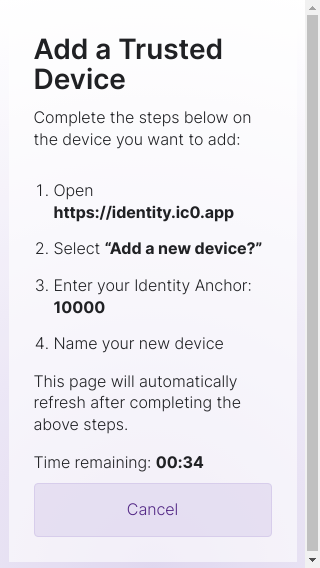
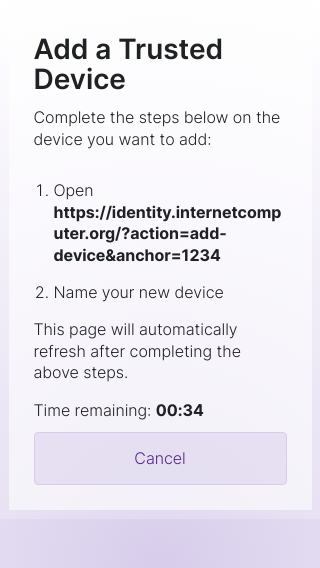
Add add-device link (#1394)
* Add add-device link

This changes the "add device" flow slightly (when starting from an
existing device) to show a link to be opened on the new device.

The link looks like this: `HOST/?action=add-device&anchor=1234`

This is then interpreted by the new device as a cue to be added
tentatively to anchor `1234`.

* Fix wrap on link

* 🤖 Selenium screenshots auto-update

* Format

* Remove unnecessary promise

---------

diff --git a/src/frontend/src/flows/addDevice/manage/pollForTentativeDevice.ts b/src/frontend/src/flows/addDevice/manage/pollForTentativeDevice.ts
@@ -1,6 +1,7 @@
 import { html } from "lit-html";
 import { asyncReplace } from "lit-html/directives/async-replace.js";
 import { AsyncCountdown } from "../../../utils/countdown";
+import { addDeviceLink } from "../../../utils/addDeviceLink";
 import { AuthenticatedConnection } from "../../../utils/iiConnection";
 import { delayMillis } from "../../../utils/utils";
 import { renderPage } from "../../../utils/lit-html";
@@ -9,16 +10,15 @@ import {
   Timestamp,
 } from "../../../../generated/internet_identity_types";
 import { mainWindow } from "../../../components/mainWindow";
-import { LEGACY_II_URL } from "../../../config";
 
 const pollForTentativeDeviceTemplate = ({
-  userNumber,
   cancel,
   remaining,
+  link,
 }: {
-  userNumber: bigint;
   cancel: () => void;
   remaining: AsyncIterable<string>;
+  link: string;
 }) => {
   const pageContentSlot = html`
     <hgroup>
@@ -32,16 +32,13 @@ const pollForTentativeDeviceTemplate = ({
       <li>
         Open
         <em class="c-tooltip">
-          <strong class="t-strong">${LEGACY_II_URL}</strong>
+          <strong data-role="add-device-link" class="t-strong t-wrap"
+            >${link}</strong
+          >
           <span class="c-tooltip__message c-card c-card--tight">
             Open this link on the device you want to add.
           </span>
         </em>
-      </li>
-      <li>Select <strong class="t-strong">“Add a new device?”</strong></li>
-      <li>
-        Enter your Identity Anchor:
-        <strong class="t-strong">${userNumber}</strong>
       </li>
       <li>Name your new device</li>
     </ol>
@@ -83,15 +80,14 @@ export const pollForTentativeDevice = (
   endTimestamp: Timestamp
 ): Promise<DeviceData | "timeout" | "canceled"> => {
   const countdown = AsyncCountdown.fromNanos(endTimestamp);
-
   // Show the page with the option to cancel
   const page = new Promise<"canceled">((resolve) =>
     pollForTentativeDevicePage({
-      userNumber,
       cancel: () => {
         countdown.stop();
         resolve("canceled");
       },
+      link: addDeviceLink({ userNumber }),
       remaining: countdown.remainingFormattedAsync(),
     })
   );

diff --git a/src/frontend/src/index.ts b/src/frontend/src/index.ts
@@ -1,14 +1,17 @@
 import "./styles/main.css";
 import { authFlowManage } from "./flows/manage";
+import { html, render } from "lit-html";
 import { authFlowAuthorize } from "./flows/authorize";
 import { compatibilityNotice } from "./flows/compatibilityNotice";
 import { aboutView } from "./flows/about";
 import { version } from "./version";
 import { checkRequiredFeatures } from "./utils/featureDetection";
+import { getAddDeviceAnchor } from "./utils/addDeviceLink";
 import { showWarningIfNecessary } from "./banner";
 import { displayError } from "./components/displayError";
 import { Connection } from "./utils/iiConnection";
 import { anyFeatures, features } from "./features";
+import { registerTentativeDevice } from "./flows/addDevice/welcomeView/registerTentativeDevice";
 
 /** Reads the canister ID from the <script> tag.
  *
@@ -93,6 +96,26 @@ const init = async () => {
 
   // Prepare the actor/connection to talk to the canister
   const connection = new Connection(readCanisterId());
+
+  // Figure out if user is trying to add a device. If so, use the anchor from the URL.
+  const addDeviceAnchor = getAddDeviceAnchor();
+  if (addDeviceAnchor !== undefined) {
+    // Register this device (tentatively)
+    await registerTentativeDevice(addDeviceAnchor, connection);
+
+    // Show a good bye message
+    const container = document.getElementById("pageContent") as HTMLElement;
+    render(
+      html`<h1
+        style="position: absolute; max-width: 100%; top: 50%; transform: translate(0, -50%);"
+        data-role="notify-auth-success"
+      >
+        You may close this page.
+      </h1>`,
+      container
+    );
+    return;
+  }
 
   // Simple, #-based routing
   if (url.hash === "#authorize") {

diff --git a/src/frontend/src/flows/addDevice/welcomeView/showVerificationCode.ts b/src/frontend/src/flows/addDevice/welcomeView/showVerificationCode.ts
@@ -1,7 +1,7 @@
 import { html } from "lit-html";
 import { asyncReplace } from "lit-html/directives/async-replace.js";
 import { Connection } from "../../../utils/iiConnection";
-import { delayMillis } from "../../../utils/utils";
+import { unreachableLax, delayMillis } from "../../../utils/utils";
 import { renderPage } from "../../../utils/lit-html";
 import {
   AddTentativeDeviceResponse,
@@ -82,7 +82,7 @@ export const showVerificationCode = async (
   alias: string,
   tentativeRegistrationInfo: TentativeRegistrationInfo,
   credentialToBeVerified: CredentialId
-): Promise<void> => {
+): Promise<"ok"> => {
   const countdown = AsyncCountdown.fromNanos(
     tentativeRegistrationInfo.device_registration_timeout
   );
@@ -157,10 +157,10 @@ const handlePollResult = async ({
 }: {
   userNumber: bigint;
   pollResult: "match" | "timeout";
-}) => {
+}): Promise<"ok"> => {
   if (pollResult === "match") {
     setAnchorUsed(userNumber);
-    window.location.reload();
+    return "ok";
   } else if (pollResult === "timeout") {
     await displayError({
       title: "Timeout Reached",
@@ -168,8 +168,11 @@ const handlePollResult = async ({
         'The timeout has been reached. For security reasons the "add device" process has been aborted.',
       primaryButton: "Ok",
     });
-    window.location.reload();
+    return window.location.reload as never;
   }
+
+  unreachableLax(pollResult);
+  return window.location.reload as never;
 };
 
 // Returns true if the given anchor has credentials with the given credential id.

diff --git a/src/frontend/src/utils/addDeviceLink.test.ts b/src/frontend/src/utils/addDeviceLink.test.ts
@@ -1,0 +1,41 @@
+import { addDeviceLink, getAddDeviceAnchor } from "./addDeviceLink";
+
+function onOrigin<T>(origin: string, fn: () => T): T {
+  const oldOrigin = window.origin;
+  Object.defineProperty(window, "origin", {
+    writable: true,
+    value: origin,
+  });
+
+  const res = fn();
+  Object.defineProperty(window, "origin", {
+    writable: true,
+    value: oldOrigin,
+  });
+
+  return res;
+}
+
+test("add device link looks as expected", () => {
+  onOrigin("https://identity.ic0.app", () => {
+    expect(addDeviceLink({ userNumber: BigInt(10000) })).toBe(
+      "https://identity.ic0.app/?action=add-device&anchor=10000"
+    );
+  });
+  onOrigin("https://identity.internetcomputer.org", () => {
+    expect(addDeviceLink({ userNumber: BigInt(10000) })).toBe(
+      "https://identity.internetcomputer.org/?action=add-device&anchor=10000"
+    );
+  });
+});
+
+test("anchor is read from add-device link", () => {
+  const link = onOrigin("https://identity.ic0.app", () =>
+    addDeviceLink({ userNumber: BigInt(10000) })
+  );
+
+  const url = new URL(link);
+
+  Object.defineProperty(window, "location", { value: url });
+  expect(getAddDeviceAnchor()).toBe(BigInt(10000));
+});

diff --git a/src/frontend/src/test-e2e/register.test.ts b/src/frontend/src/test-e2e/register.test.ts
@@ -114,17 +114,11 @@ test("Register new identity and add additional remote device", async () => {
 
     const addDeviceFlowView = new AddDeviceFlowSelectorView(browser);
     await addDeviceFlowView.waitForDisplay();
-    await addDeviceFlowView.selectRemoteDevice();
+    const addDeviceLink = await addDeviceFlowView.selectRemoteDevice();
 
     await runInBrowser(async (browser2: WebdriverIO.Browser) => {
       await addVirtualAuthenticator(browser2);
-      await browser2.url(II_URL);
-      const welcomeView2 = new WelcomeView(browser2);
-      await welcomeView2.waitForDisplay();
-      await welcomeView2.addDevice();
-      const addIdentityAnchorView2 = new AddIdentityAnchorView(browser2);
-      await addIdentityAnchorView2.waitForDisplay();
-      await addIdentityAnchorView2.continue(userNumber);
+      await browser2.url(addDeviceLink);
       const addRemoteDeviceView = new AddRemoteDeviceAliasView(browser2);
       await addRemoteDeviceView.waitForDisplay();
       await addRemoteDeviceView.selectAlias(DEVICE_NAME2);

diff --git a/src/frontend/src/flows/addDevice/welcomeView/registerTentativeDevice.ts b/src/frontend/src/flows/addDevice/welcomeView/registerTentativeDevice.ts
@@ -25,7 +25,7 @@ import { authenticatorAttachmentToKeyType } from "../../../utils/authenticatorAt
 export const registerTentativeDevice = async (
   userNumber: bigint,
   connection: Connection
-): Promise<void> => {
+): Promise<"ok"> => {
   // First, we need an alias for the device to (tentatively) add
   const alias = await promptDeviceAlias({
     title: "Add a Trusted Device",
@@ -35,8 +35,7 @@ export const registerTentativeDevice = async (
 
   if (alias === null) {
     // TODO L2-309: do this without reload
-    window.location.reload();
-    return;
+    return window.location.reload() as never;
   }
 
   // Then, we create local WebAuthn credentials for the device
@@ -75,7 +74,7 @@ export const registerTentativeDevice = async (
 
   // If everything went well we can now ask the user to authenticate on an existing device
   // and enter a verification code
-  await showVerificationCode(
+  return await showVerificationCode(
     userNumber,
     connection,
     device.alias,

diff --git a/src/frontend/src/utils/addDeviceLink.ts b/src/frontend/src/utils/addDeviceLink.ts
@@ -1,0 +1,31 @@
+/** A link in the form /?action=add-device&anchor=...
+ * We use a query parameter instead of a route (e.g. /add-device) to avoid canister changes
+ * and allow more flexibility */
+export const addDeviceLink = ({
+  userNumber,
+  origin,
+}: {
+  userNumber: bigint;
+  origin?: string;
+}): string => {
+  return (origin ?? window.origin) + "/?action=add-device&anchor=" + userNumber;
+};
+
+/** When called from an "add device" URL, returns the anchor. Otherwise returns undefined */
+export const getAddDeviceAnchor = (): bigint | undefined => {
+  if (window.location.pathname === "/") {
+    const urlSearchParams = new URLSearchParams(window.location.search);
+
+    const action = urlSearchParams.get("action");
+    if (action !== "add-device") {
+      return undefined;
+    }
+
+    const anchor = urlSearchParams.get("anchor");
+    if (anchor === null) {
+      return undefined;
+    }
+
+    return BigInt(anchor);
+  }
+};

diff --git a/src/frontend/src/showcase.ts b/src/frontend/src/showcase.ts
@@ -5,6 +5,7 @@ import "./styles/main.css";
 import { createRef, ref, Ref } from "lit-html/directives/ref.js";
 import { asyncReplace } from "lit-html/directives/async-replace.js";
 import { Chan, NonEmptyArray, asNonEmptyArray } from "./utils/utils";
+import { addDeviceLink } from "./utils/addDeviceLink";
 import { I18n } from "./utils/i18n";
 import { withRef, mount } from "./utils/lit-html";
 import { TemplateResult, html, render } from "lit-html";
@@ -311,8 +312,11 @@ const iiPages: Record<string, () => void> = {
   chooseDeviceAddFlow: () => chooseDeviceAddFlow(),
   pollForTentativeDevicePage: () =>
     pollForTentativeDevicePage({
-      userNumber,
       cancel: () => console.log("canceled"),
+      link: addDeviceLink({
+        origin: "https://identity.internetcomputer.org",
+        userNumber: BigInt(1234),
+      }),
       remaining: {
         async *[Symbol.asyncIterator]() {
           yield "00:34";

diff --git a/src/frontend/src/test-e2e/views.ts b/src/frontend/src/test-e2e/views.ts
@@ -343,8 +343,9 @@ export class AddDeviceFlowSelectorView extends View {
     await this.browser.$("#local").click();
   }
 
-  async selectRemoteDevice(): Promise<void> {
+  async selectRemoteDevice(): Promise<string> {
     await this.browser.$("#remote").click();
+    return await this.browser.$(`[data-role="add-device-link"]`).getText();
   }
 }
 

diff --git a/src/frontend/src/styles/main.css b/src/frontend/src/styles/main.css
@@ -459,6 +459,12 @@ body {
   vertical-align: baseline;
 }
 
+.t-wrap {
+  overflow-wrap: break-word;
+  word-wrap: break-word;
+  hyphens: auto;
+}
+
 a,
 .t-link {
   display: inline;
